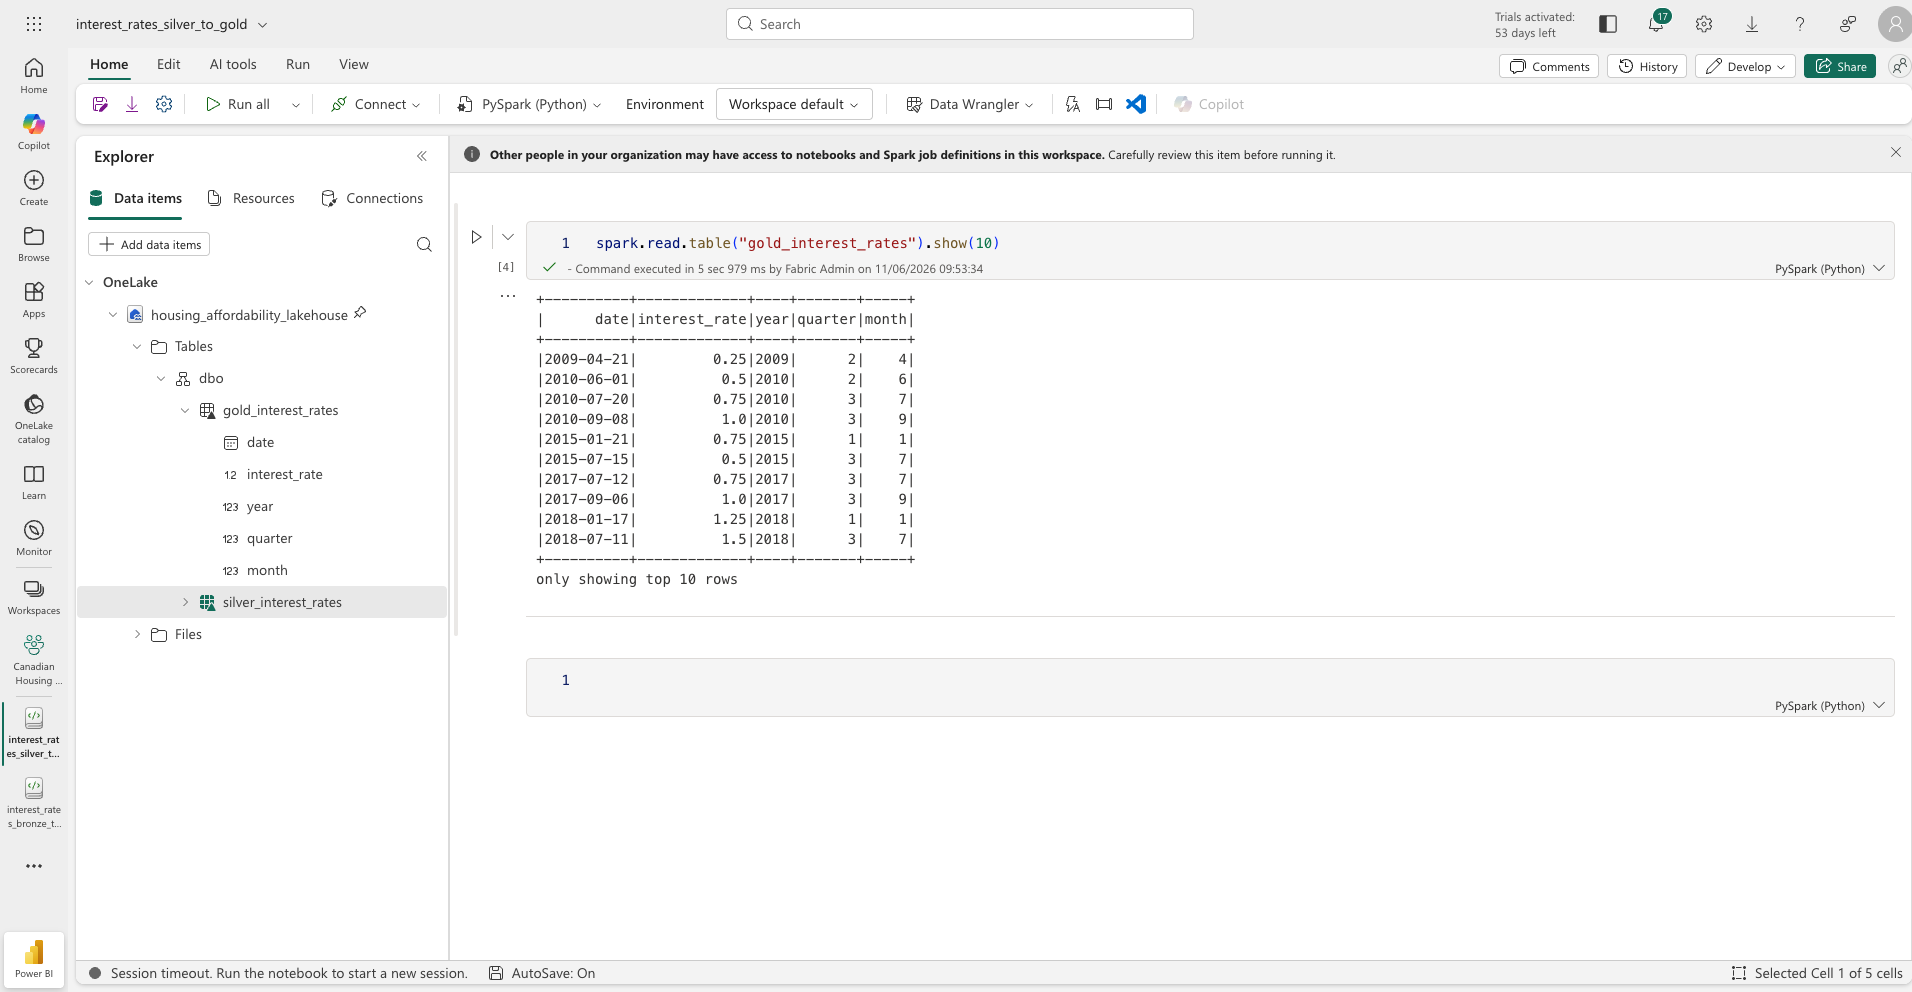
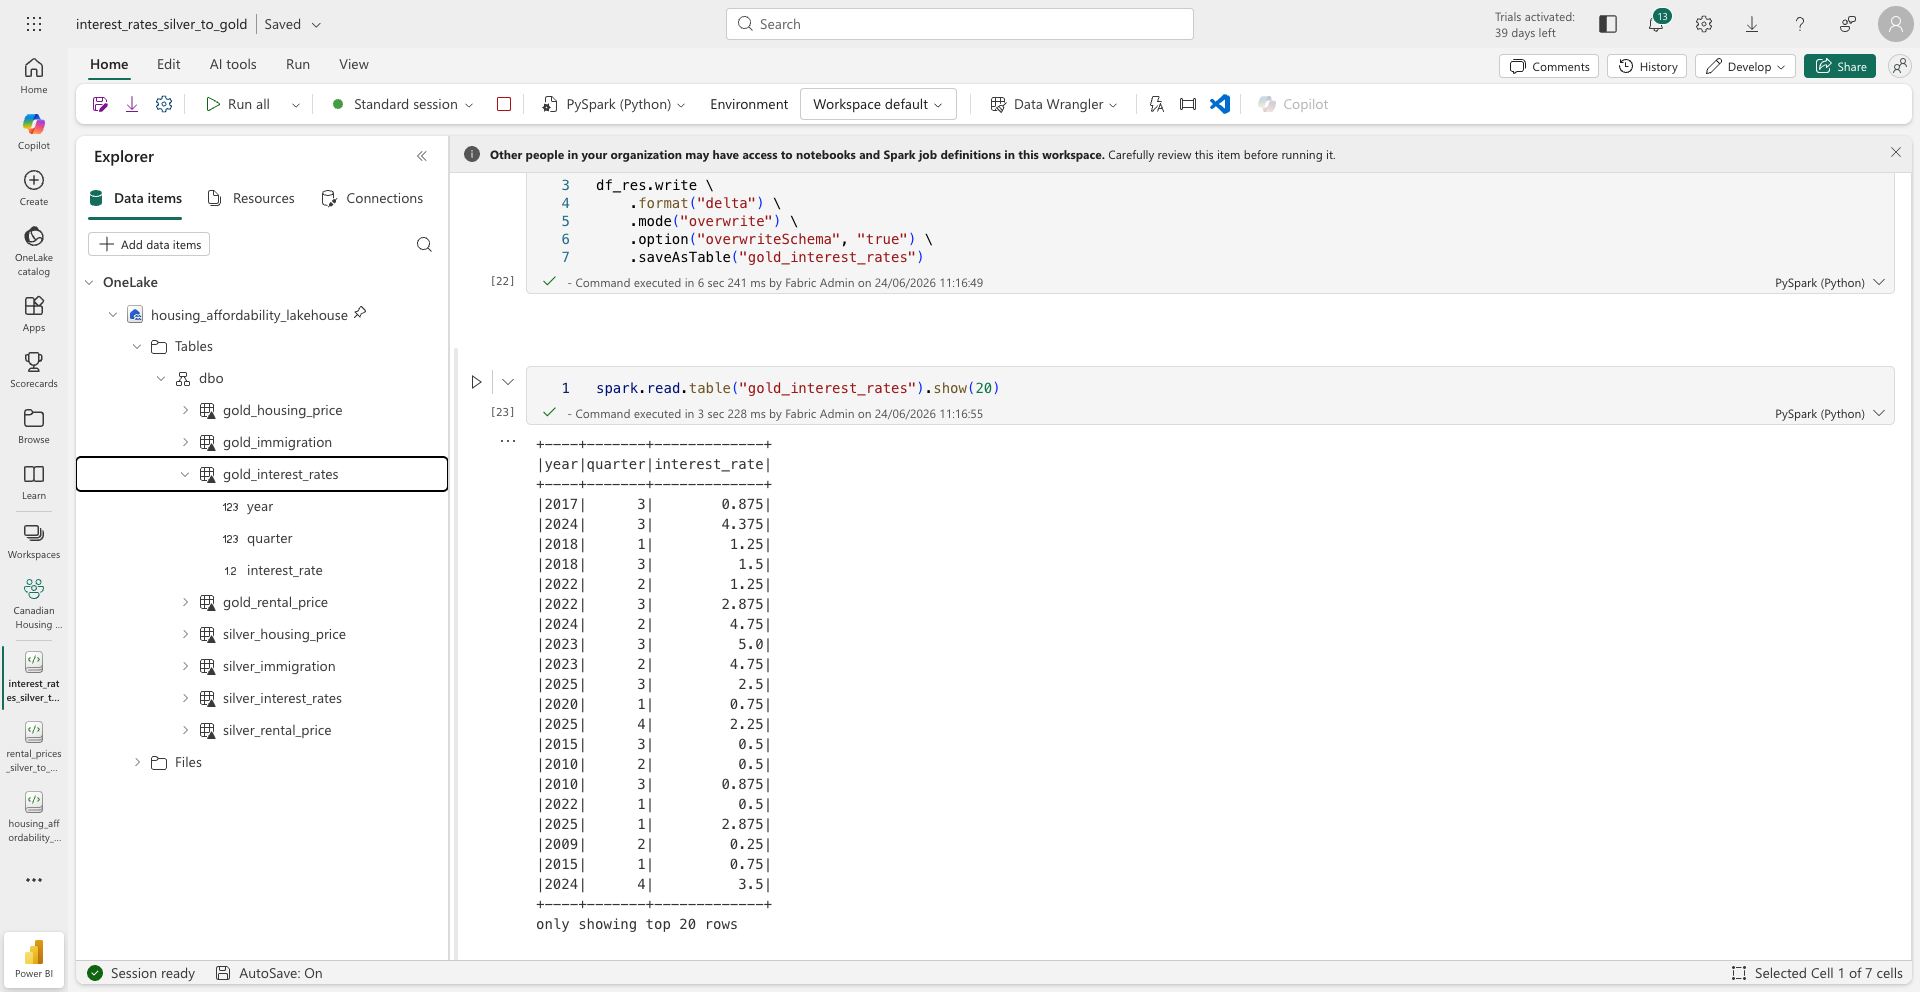
update sur gold_interest_gold, suppression des colonnes mois et date, ajout d'aggregation par quarter

diff --git a/notebooks/interest_rates_silver_to_gold.py b/notebooks/interest_rates_silver_to_gold.py
@@ -5,7 +5,7 @@
 # 
 # null
 
-# In[1]:
+# In[18]:
 
 
 # Welcome to your new notebook
@@ -14,7 +14,7 @@ df = spark.read.table("silver_interest_rates")
 df.show(5)
 
 
-# In[2]:
+# In[19]:
 
 
 # Create year, quarter, month column within gold dataframe
@@ -29,21 +29,44 @@ df_gold = df \
 df_gold.show(10)
 
 
-# In[3]:
+# In[20]:
+
+
+# Aggregate average of interest rate for each quarter
+
+from pyspark.sql.functions import avg
+
+df_gold_interest_rate = df_gold \
+    .groupBy("year", "quarter") \
+    .agg(
+        avg("interest_rate").alias("interest_rate")
+    )
+
+df_gold_interest_rate.show(10)
+
+
+# In[21]:
+
+
+df_gold_interest_rate.printSchema()
+
+
+# In[22]:
 
 
 # Save gold table
 
-df_gold.write \
+df_res.write \
     .format("delta") \
     .mode("overwrite") \
+    .option("overwriteSchema", "true") \
     .saveAsTable("gold_interest_rates")
 
 
-# In[4]:
+# In[23]:
 
 
-spark.read.table("gold_interest_rates").show(10)
+spark.read.table("gold_interest_rates").show(20)
 
 
 # In[ ]: